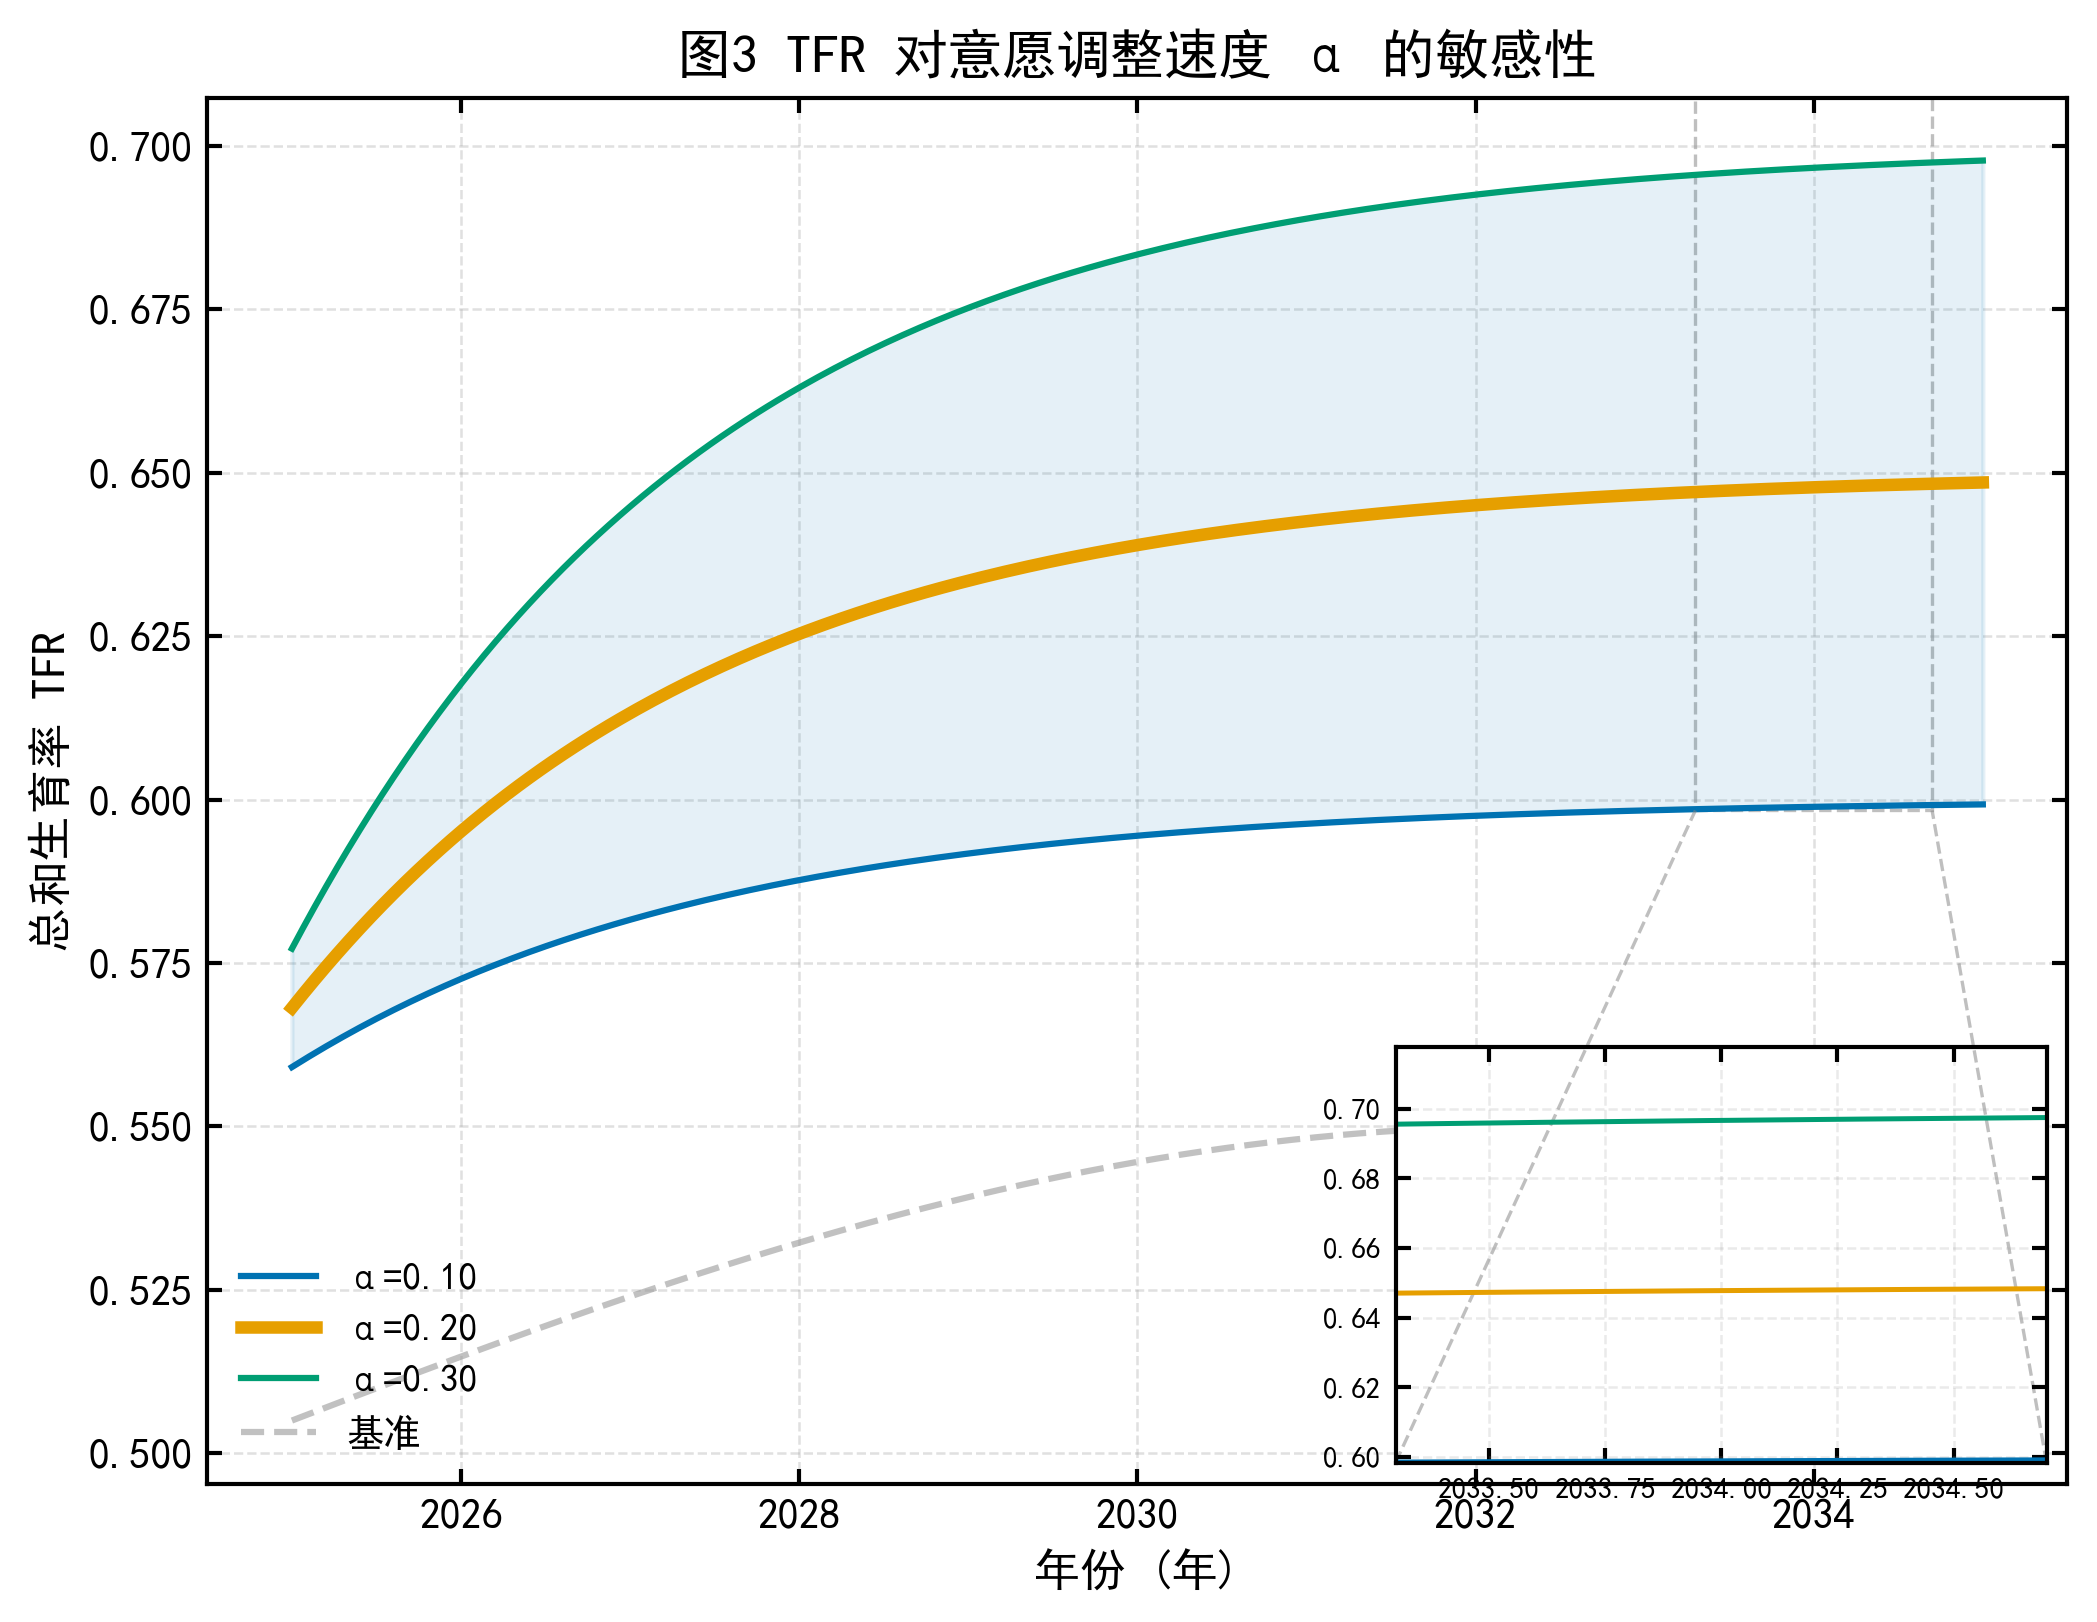
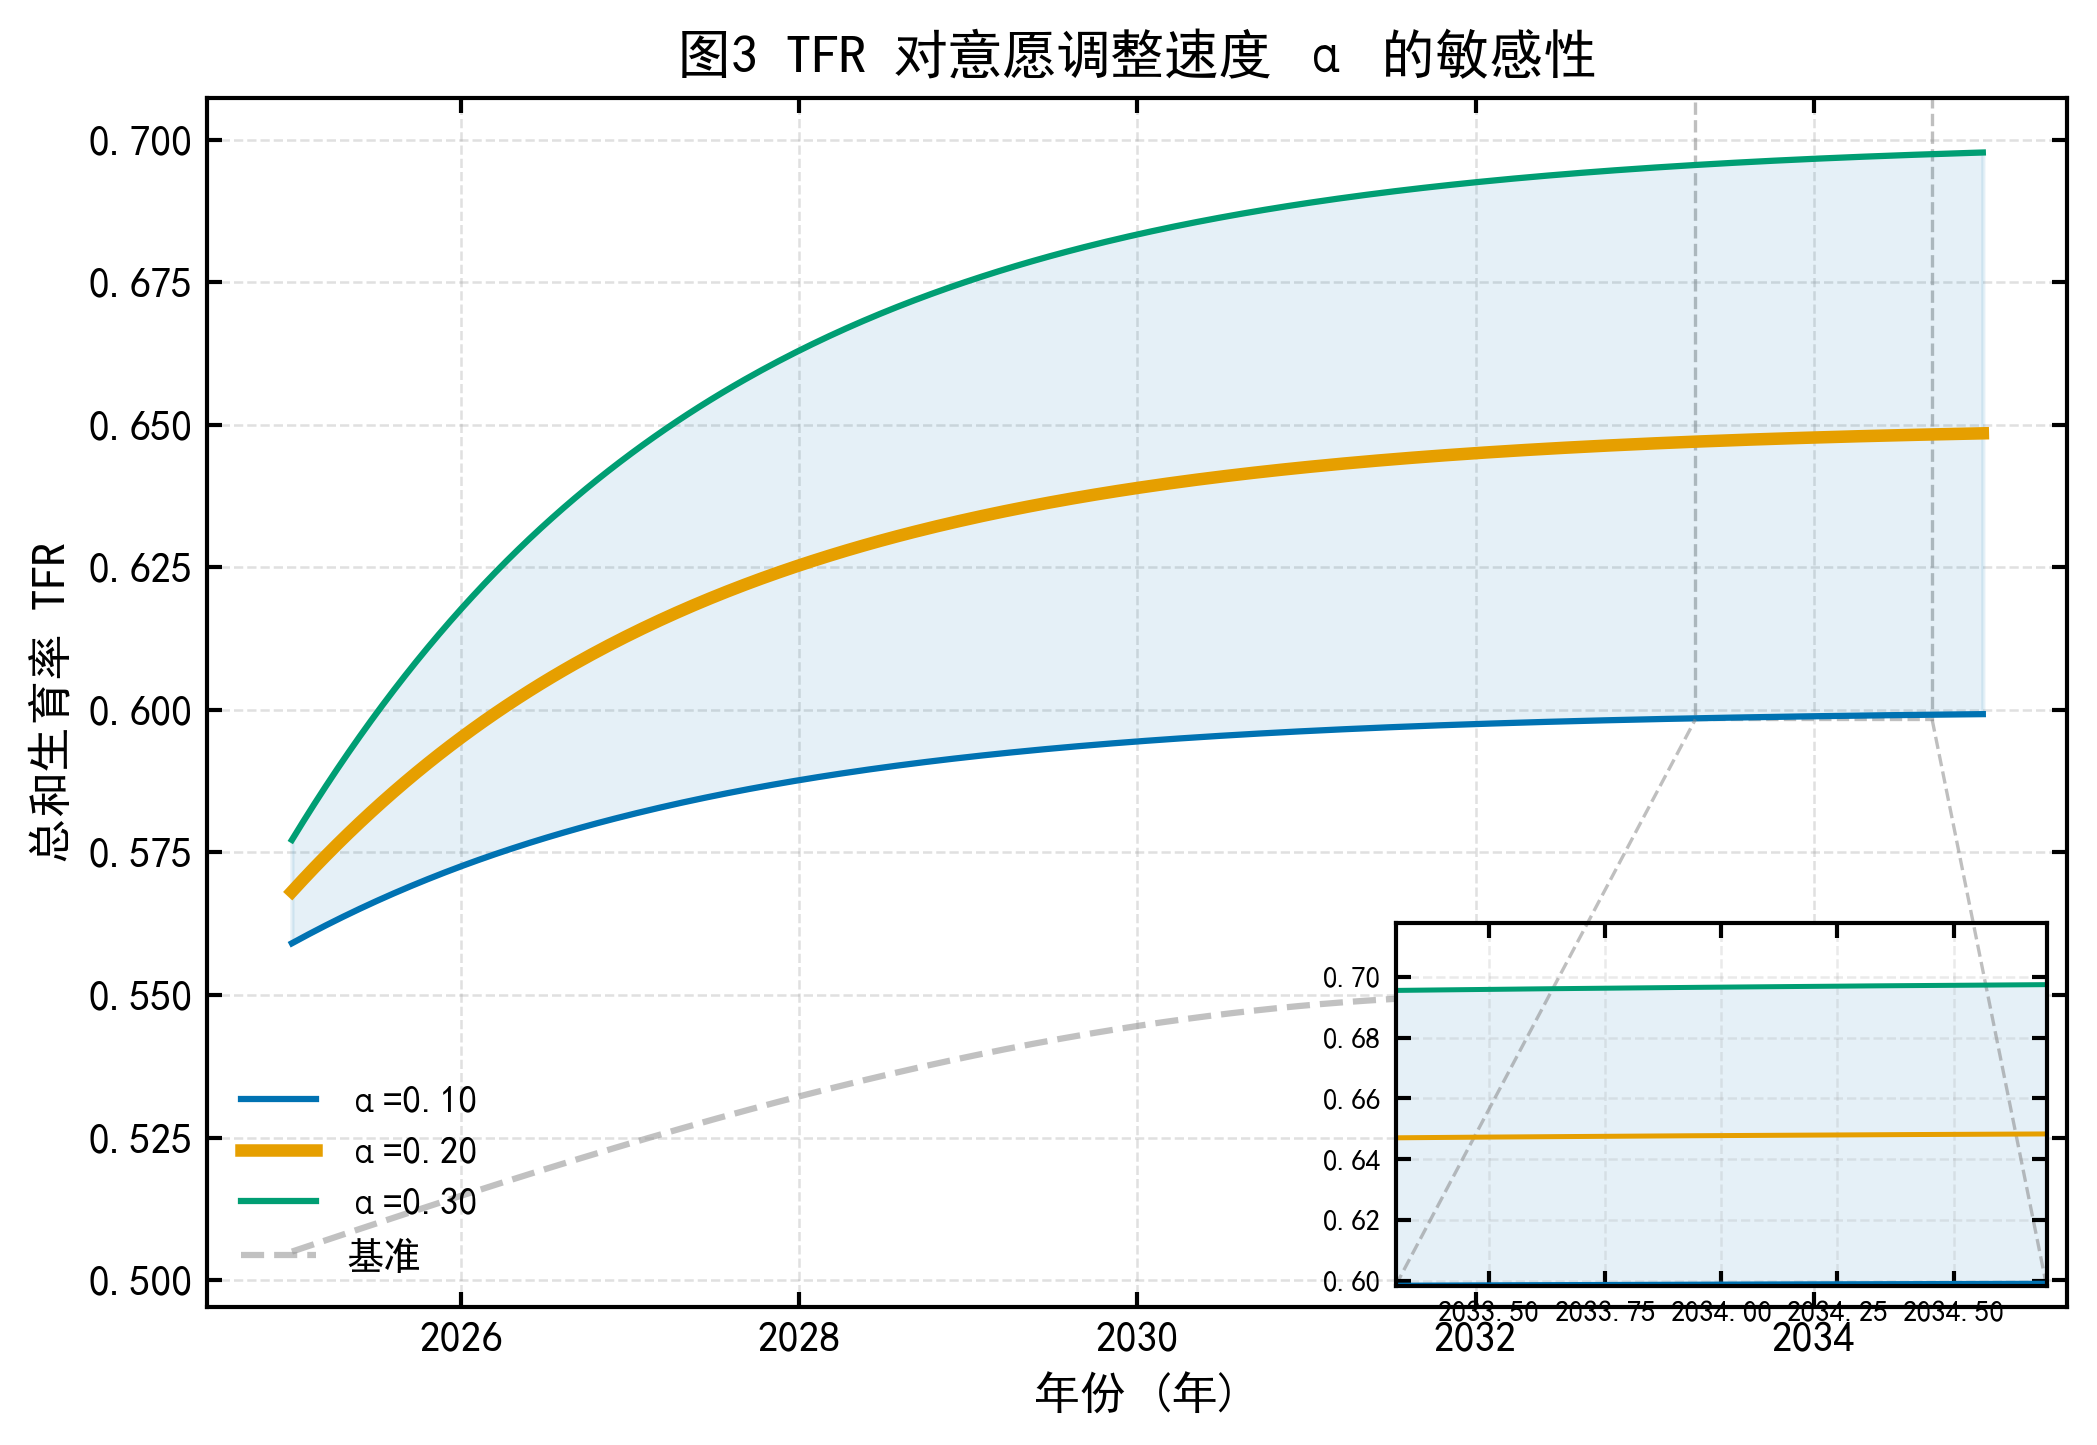
整合学习笔记细节到灵敏度分析图：画布纵横比优化 + 放大子图参数色带

diff --git a/模板库/灵敏度分析图.py b/模板库/灵敏度分析图.py
@@ -21,10 +21,12 @@ def inset_zoom_line(ax, x, y_dict, *, baseline=None, baseline_label="基准",
                     xlabel="", ylabel="", title="",
                     fill_low=None, fill_high=None,  # 区间填充的两条曲线 key
                     zoom=None,             # (x0, x1, y0, y1): inset 放大区域
-                    inset_size=(0.35, 0.30), inset_loc="lower right"):
+                    inset_size=(0.35, 0.30), inset_loc="lower right",
+                    aspect=None):          # 画布纵横比优化（如 0.65；None=不启用）
     """在 ax 上画多曲线 + 参数区间阴影 + 局部放大子图。
     y_dict: {名称: y 序列}；baseline: 基准线 y 序列（灰色虚线）。
     中间的参数曲线加粗（lw=3），其余细线（1.5）。
+    aspect：按数据范围自动设置画布纵横比（xr/yr*aspect），图比例更协调。
     """
     # --- 数据平滑（三次样条，输出300点） ---
     smooth = {}
@@ -64,6 +66,11 @@ def inset_zoom_line(ax, x, y_dict, *, baseline=None, baseline_label="基准",
             ax_ins.plot(xs, ys, color=get_color(keys.index(k)), lw=1.2)
         if baseline is not None:
             ax_ins.plot(*baseline, **BASELINE_KW)
+        # 放大子图内同样绘制参数区间色带（信息更完整）
+        if fill_low is not None and fill_high is not None:
+            xf2, y_low2 = smooth[fill_low]
+            _, y_high2 = smooth[fill_high]
+            ax_ins.fill_between(xf2, y_low2, y_high2, color=C_BLUE, alpha=0.1, zorder=1)
         ax_ins.set_xlim(x0, x1)
         ax_ins.set_ylim(y0, y1)
         ax_ins.tick_params(labelsize=7)
@@ -76,6 +83,11 @@ def inset_zoom_line(ax, x, y_dict, *, baseline=None, baseline_label="基准",
     ax.set_title(title)
     ax.legend(loc="lower left", fontsize=9)
     _grid(ax)
+    # 画布纵横比优化（来自学习笔记局部放大图.md）
+    if aspect is not None:
+        yr = ax.get_ylim()[1] - ax.get_ylim()[0]
+        xr = ax.get_xlim()[1] - ax.get_xlim()[0]
+        ax.set_aspect(xr / yr * aspect)
 
 
 if __name__ == "__main__":
@@ -96,6 +108,7 @@ if __name__ == "__main__":
                     xlabel="年份 (年)", ylabel="总和生育率 TFR",
                     title="图3 TFR 对意愿调整速度 α 的敏感性",
                     fill_low="α=0.10", fill_high="α=0.30",
-                    zoom=(2033.3, 2034.7, y_lo, y_hi))   # 放大末尾两年
+                    zoom=(2033.3, 2034.7, y_lo, y_hi),   # 放大末尾两年
+                    aspect=0.65)                          # 画布纵横比优化
     save_fig(fig, "图3_灵敏度分析")
     plt.show()
